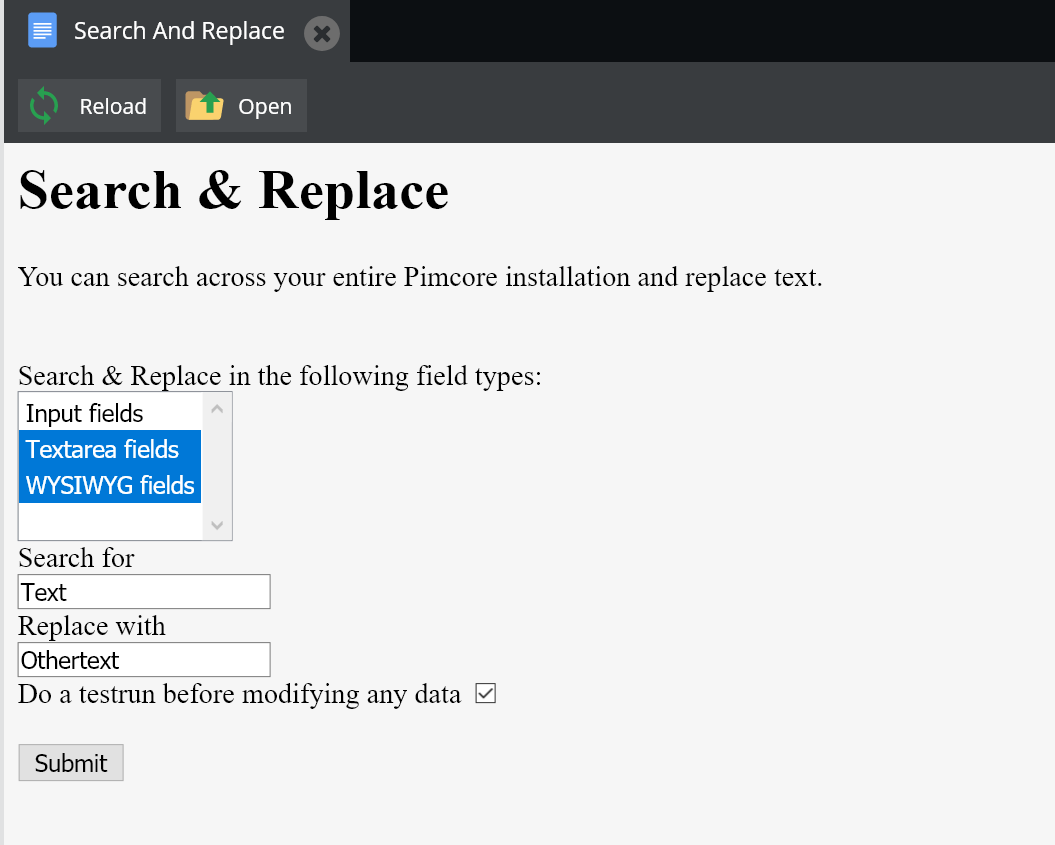
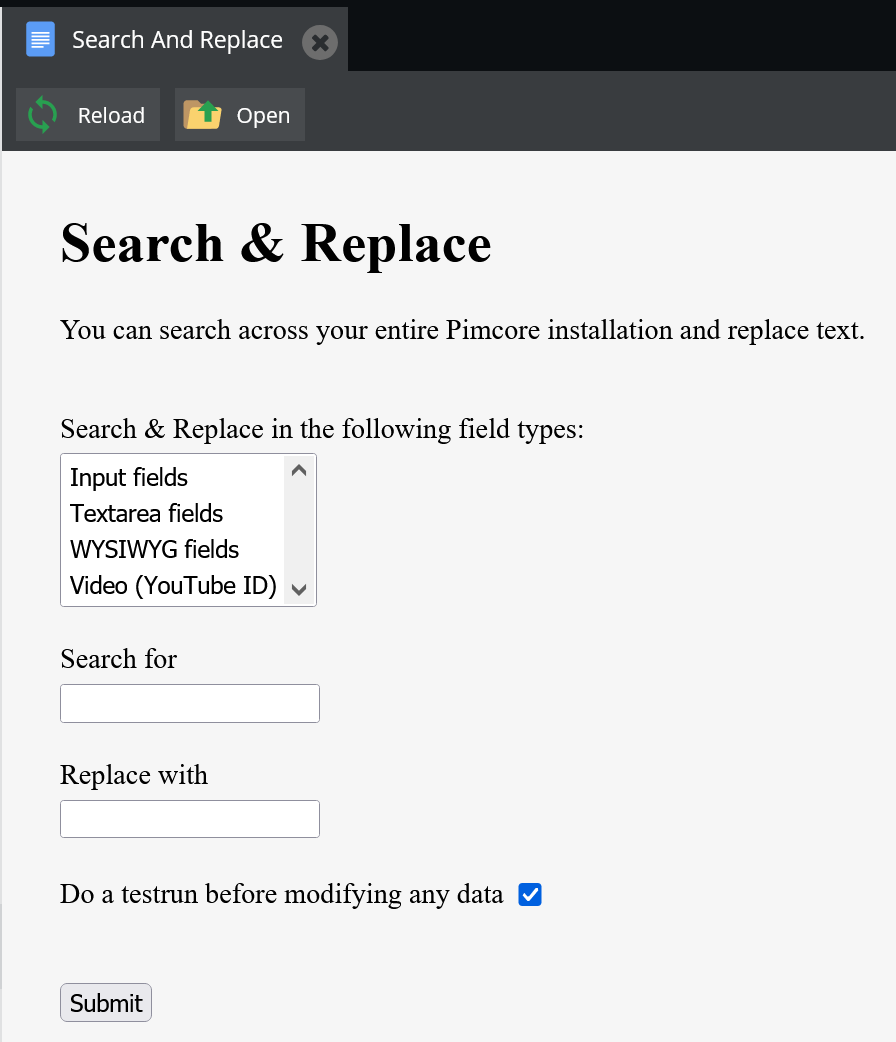
Add replacement for video element type Youtube ID only

diff --git a/src/pringuin/SearchreplaceBundle/Controller/AdminController.php b/src/pringuin/SearchreplaceBundle/Controller/AdminController.php
@@ -30,7 +30,7 @@ class AdminController extends FrontendController
             throw new AccessDeniedHttpException();
         }
 
-        $allowedreplacetypes = ['input','textarea','wysiwyg'];
+        $allowedreplacetypes = ['input','textarea','wysiwyg','video'];
 
         $responsemessage = '';
         if($request->isMethod('post')){
@@ -56,38 +56,97 @@ class AdminController extends FrontendController
                                         ).'</div>';
                                 foreach($result as $foundelement){
                                     if(key_exists('data',$foundelement)) {
-                                        $responsemessage .= '<div><h2>'.$this
-                                                ->get('translator')
-                                                ->trans(
-                                                    'before',
-                                                    [],
-                                                    'admin'
-                                                ).' <span onclick="goToDocument('.$foundelement['documentId'].')" style="padding-top:5px;background-color:#000000">
+                                        if($foundelement['type'] == 'video'){
+                                            $deserializeddata = \Pimcore\Tool\Serialize::unserialize($foundelement['data']);
+                                            if(is_array($deserializeddata)) {
+                                                if (key_exists('type', $deserializeddata) && $deserializeddata['type'] == "youtube") {
+                                                    if (key_exists('id', $deserializeddata) && $deserializeddata['id'] == $request->request->get('searchterm')) {
+                                                        $responsemessage .= '<div><h2>'.$this
+                                                                ->get('translator')
+                                                                ->trans(
+                                                                    'before',
+                                                                    [],
+                                                                    'admin'
+                                                                ).' <span onclick="goToDocument('.$foundelement['documentId'].')" style="padding-top:5px;background-color:#000000">
+                                                        <img src="/bundles/pimcoreadmin/img/flat-white-icons/page.svg" />
+                                                        </span></h2>';
+                                                        $responsemessage .= $this
+                                                                ->get('translator')
+                                                                ->trans(
+                                                                    'videoid',
+                                                                    [],
+                                                                    'admin'
+                                                                ).' '.strip_tags($deserializeddata['id']);
+                                                        $responsemessage .= '</div>';
+                                                        $responsemessage .= '<div><h2>'.$this
+                                                                ->get('translator')
+                                                                ->trans(
+                                                                    'after',
+                                                                    [],
+                                                                    'admin'
+                                                                ).'</h2>';
+                                                        $responsemessage .= $this
+                                                                ->get('translator')
+                                                                ->trans(
+                                                                    'videoid',
+                                                                    [],
+                                                                    'admin'
+                                                                ).' '.$request->request->get('replaceterm');
+                                                        $responsemessage .= '</div>';
+                                                    }
+                                                }
+                                            }
+                                        }
+                                        else{
+                                            $responsemessage .= '<div><h2>'.$this
+                                                    ->get('translator')
+                                                    ->trans(
+                                                        'before',
+                                                        [],
+                                                        'admin'
+                                                    ).' <span onclick="goToDocument('.$foundelement['documentId'].')" style="padding-top:5px;background-color:#000000">
                                                 <img src="/bundles/pimcoreadmin/img/flat-white-icons/page.svg" />
                                                 </span></h2>';
-                                        $responsemessage .= strip_tags($foundelement['data']);
-                                        $responsemessage .= '</div>';
-                                        $html_pattern = $this->make_html_pattern($request->request->get('searchterm'));
-                                        $text_replacement = $this->make_text_replacement($request->request->get('replaceterm'));
-                                        $responsemessage .= '<div><h2>'.$this
-                                                ->get('translator')
-                                                ->trans(
-                                                    'after',
-                                                    [],
-                                                    'admin'
-                                                ).'</h2>';
-                                        $responsemessage .= strip_tags(preg_replace($html_pattern, $text_replacement, $foundelement['data']));
-                                        $responsemessage .= '</div>';
+                                            $responsemessage .= strip_tags($foundelement['data']);
+                                            $responsemessage .= '</div>';
+                                            $html_pattern = $this->make_html_pattern($request->request->get('searchterm'));
+                                            $text_replacement = $this->make_text_replacement($request->request->get('replaceterm'));
+                                            $responsemessage .= '<div><h2>'.$this
+                                                    ->get('translator')
+                                                    ->trans(
+                                                        'after',
+                                                        [],
+                                                        'admin'
+                                                    ).'</h2>';
+                                            $responsemessage .= strip_tags(preg_replace($html_pattern, $text_replacement, $foundelement['data']));
+                                            $responsemessage .= '</div>';
+                                        }
                                     }
                                 }
                             }
                             else{
                                 foreach($result as $foundelement) {
                                     if (key_exists('data', $foundelement)) {
-                                        $html_pattern = $this->make_html_pattern($request->request->get('searchterm'));
-                                        $text_replacement = $this->make_text_replacement($request->request->get('replaceterm'));
-                                        $replacement = preg_replace($html_pattern, $text_replacement, $foundelement['data']);
-                                        $updatesuccess = true;
+                                        if($foundelement['type'] == 'video'){
+                                            $replacement = $foundelement['data'];
+                                            $deserializeddata = \Pimcore\Tool\Serialize::unserialize($foundelement['data']);
+                                            if(is_array($deserializeddata)){
+                                                if(key_exists('type',$deserializeddata) && $deserializeddata['type'] == "youtube"){
+                                                    if(key_exists('id',$deserializeddata) && $deserializeddata['id'] == $request->request->get('searchterm')){
+                                                        $preparereplacement = $deserializeddata;
+                                                        $preparereplacement['id'] = $request->request->get('replaceterm');
+                                                        $replacement = \Pimcore\Tool\Serialize::serialize($preparereplacement);
+                                                        $updatesuccess = true;
+                                                    }
+                                                }
+                                            }
+                                        }
+                                        else{
+                                            $html_pattern = $this->make_html_pattern($request->request->get('searchterm'));
+                                            $text_replacement = $this->make_text_replacement($request->request->get('replaceterm'));
+                                            $replacement = preg_replace($html_pattern, $text_replacement, $foundelement['data']);
+                                            $updatesuccess = true;
+                                        }
                                         try{
                                             $data = [
                                                 'data' => $replacement,
@@ -104,21 +163,21 @@ class AdminController extends FrontendController
                                         }
                                         if($updatesuccess) {
                                             $responsemessage .= '<div>' . $this
-                                                ->get('translator')
-                                                ->trans(
-                                                    'text_replaced_successfully',
-                                                    [],
-                                                    'admin'
-                                                ) . ' ' . $searchinfields . '</div>';
+                                                    ->get('translator')
+                                                    ->trans(
+                                                        'text_replaced_successfully',
+                                                        [],
+                                                        'admin'
+                                                    ) . ' ' . $searchinfields . '</div>';
                                         }
                                         else{
                                             $responsemessage .= '<div>'.$this
-                                                ->get('translator')
-                                                ->trans(
-                                                    'text_replacement_failed',
-                                                    [],
-                                                    'admin'
-                                                ).' '.$searchinfields.'</div>';
+                                                    ->get('translator')
+                                                    ->trans(
+                                                        'text_replacement_failed',
+                                                        [],
+                                                        'admin'
+                                                    ).' '.$searchinfields.'</div>';
                                         }
                                     }
                                 }
